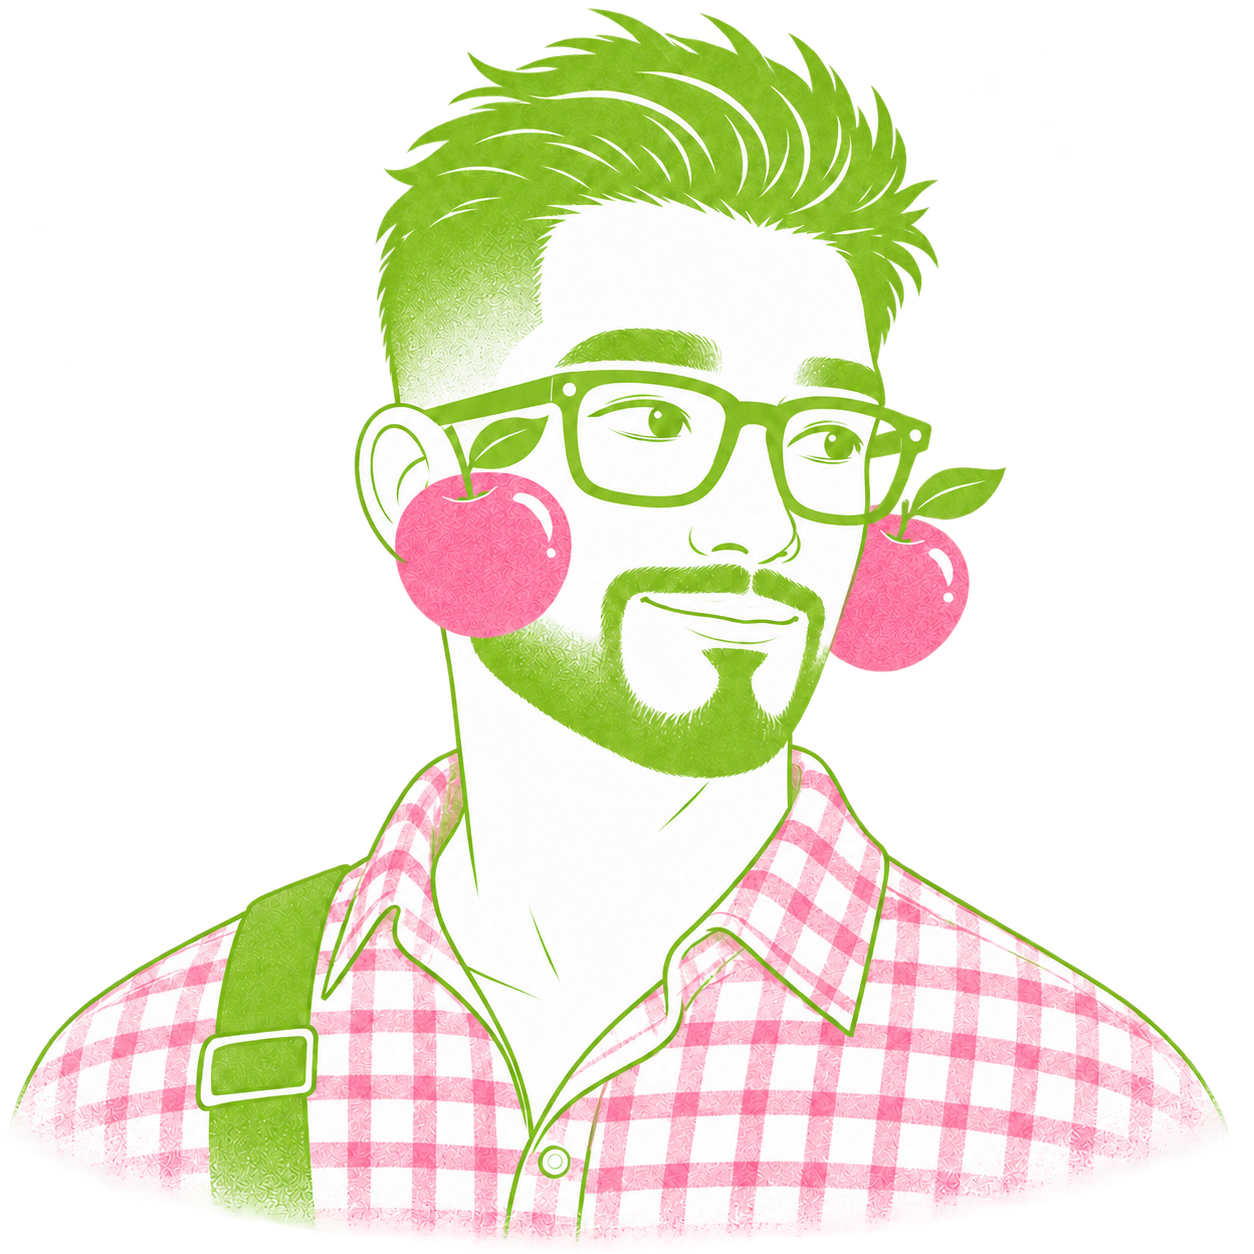
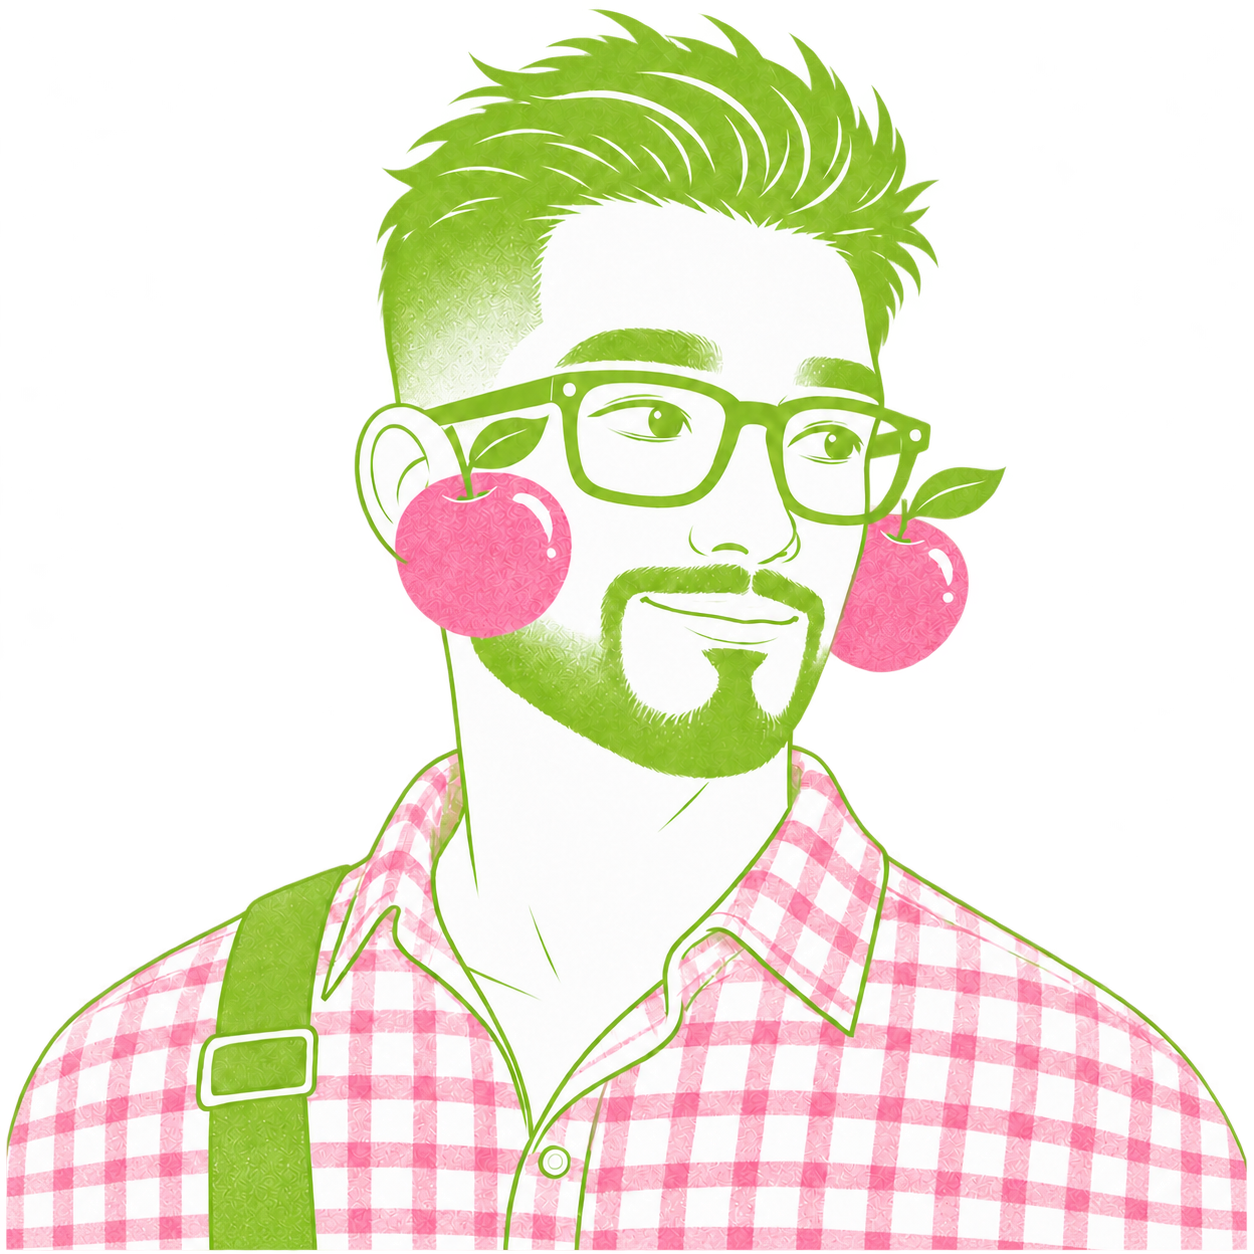
fix(home): refine portraits and align visual positioning

diff --git a/src/index.css b/src/index.css
@@ -6923,7 +6923,7 @@ button.ui-switch-large:focus-visible {
 }
 
 /* LINE 名片與首頁場景同步：保留原圖比例，預載四張肖像後交叉淡入。 */
-.theme-contact-portrait { position: relative; display: block; width: 100%; height: 100%; }
+.theme-contact-portrait { position: relative; display: block; width: 100%; height: 100%; overflow: hidden; }
 .contact-flip-face .theme-contact-portrait img {
   position: absolute;
   inset: 0;
@@ -6934,6 +6934,11 @@ button.ui-switch-large:focus-visible {
   transition: opacity 1.2s ease;
 }
 .contact-flip-face .theme-contact-portrait img.is-active { opacity: 1; }
+/* 以頭部份量與眼睛高度校準視覺重心；胸口超出的部分由共用外框齊底裁切。 */
+.theme-contact-portrait .theme-contact-portrait--orange { transform: translate(-3%, 7%) scale(1.1); }
+.theme-contact-portrait .theme-contact-portrait--lemon { transform: translate(-4%, 5%) scale(1.22); }
+.theme-contact-portrait .theme-contact-portrait--apple { transform: translate(-2%, 4%); }
+.theme-contact-portrait .theme-contact-portrait--grape { transform: translateX(5%); }
 .desk-app .about-profile-line,
 .desk-app #add-line-btn-hero {
   background-color: var(--closing-accent);

diff --git a/src/components/ThemeContactPortrait.tsx b/src/components/ThemeContactPortrait.tsx
@@ -1,7 +1,7 @@
 const PORTRAITS = [
   { key: "orange", src: "/logo.png?v=20261110" },
-  { key: "lemon", src: "/portrait-lemon.png" },
-  { key: "apple", src: "/portrait-apple.png" },
+  { key: "lemon", src: "/portrait-lemon.png?v=20261110-selected" },
+  { key: "apple", src: "/portrait-apple.png?v=20261110-flat" },
   { key: "grape", src: "/portrait-grape.png" },
 ];
 
@@ -12,7 +12,8 @@ export function ThemeContactPortrait({ scene }: { scene: string }) {
     <span className="theme-contact-portrait">
       {PORTRAITS.map(({ key, src }) => (
         <img key={key} src={src} alt={key === active ? "LINUS 住好日" : ""}
-          aria-hidden={key !== active} className={key === active ? "is-active" : ""} />
+          aria-hidden={key !== active}
+          className={`theme-contact-portrait--${key}${key === active ? " is-active" : ""}`} />
       ))}
     </span>
   );
